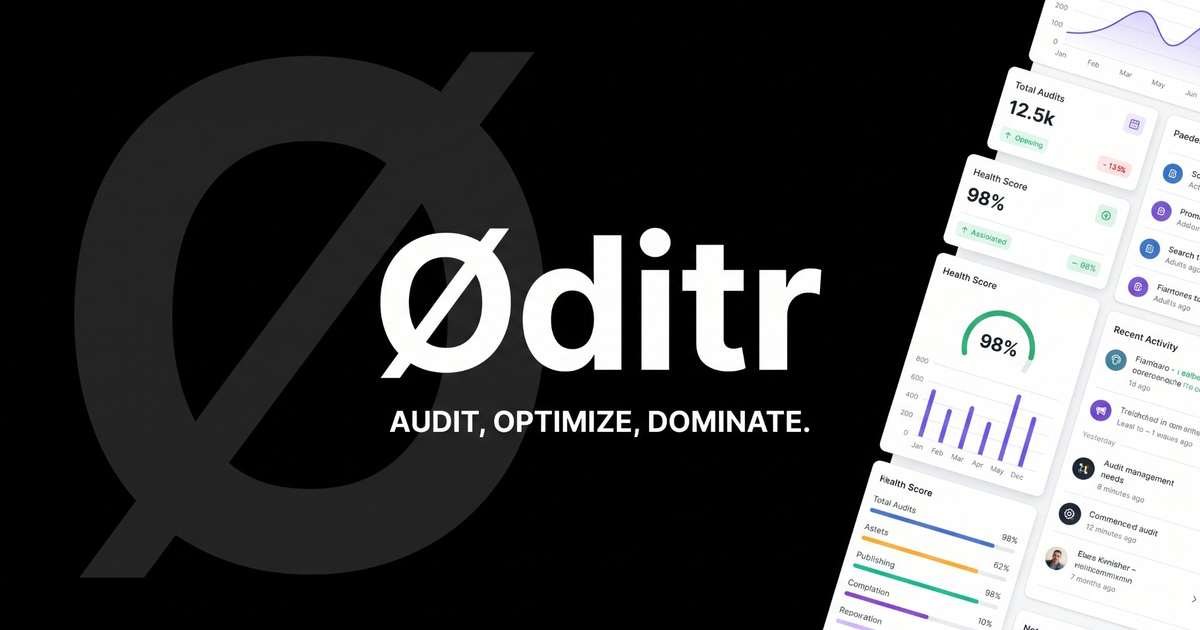
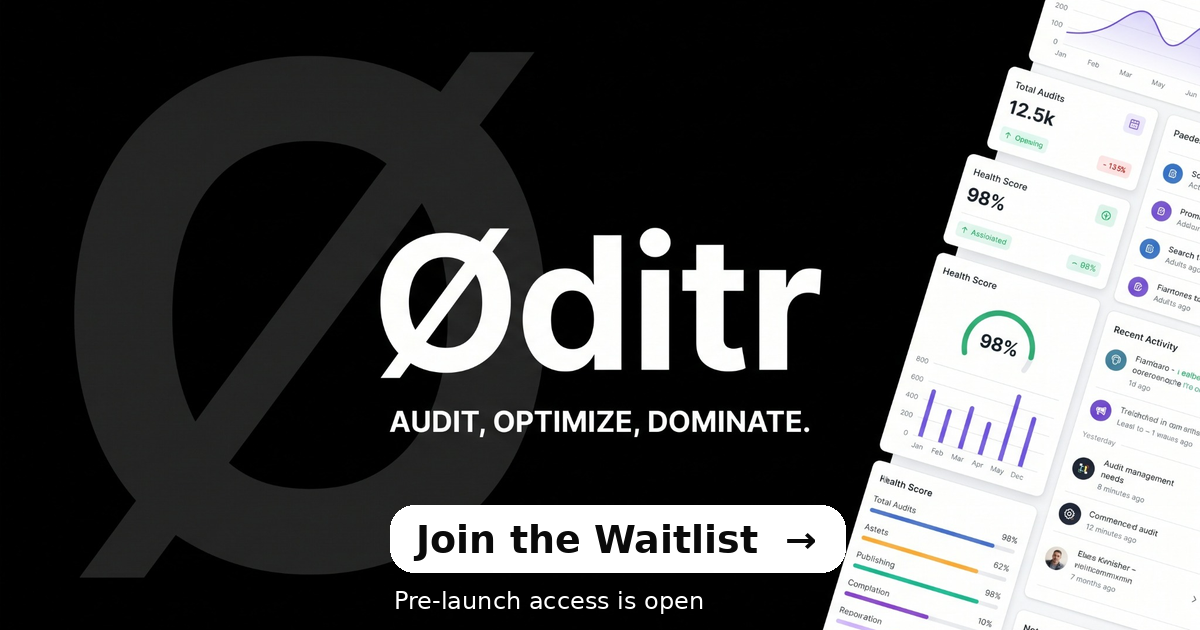
fix: OpenGraph meta tags - add og:site_name, og:url, absolute image URLs, width/height/alt, new OG image with CTA

Changed region(s): [[0.3083, 0.7841, 0.7092, 0.9651]]

diff --git a/frontend/public/index.html b/frontend/public/index.html
@@ -7,20 +7,26 @@
         <meta name="description" content="Øditr — Performance Intelligence for modern websites. Know what slows your website. Fix it before users leave." />
 
         <!-- Favicon & App Icons -->
-        <link rel="icon" type="image/x-icon" href="%PUBLIC_URL%/favicon.ico?v=2" />
-        <link rel="apple-touch-icon" href="%PUBLIC_URL%/apple-touch-icon.png?v=2" />
+        <link rel="icon" type="image/x-icon" href="%PUBLIC_URL%/favicon.ico?v=3" />
+        <link rel="apple-touch-icon" href="%PUBLIC_URL%/apple-touch-icon.png?v=3" />
 
         <!-- Open Graph -->
         <meta property="og:type" content="website" />
+        <meta property="og:site_name" content="Øditr" />
+        <meta property="og:url" content="https://oditr-waitlist-lc21.vercel.app/" />
         <meta property="og:title" content="Øditr — Website Intelligence Platform" />
         <meta property="og:description" content="Find what's broken. Fix what matters. Protect revenue." />
-        <meta property="og:image" content="%PUBLIC_URL%/oditr-og-image.png" />
+        <meta property="og:image" content="https://oditr-waitlist-lc21.vercel.app/oditr-og-image.png?v=3" />
+        <meta property="og:image:width" content="1200" />
+        <meta property="og:image:height" content="630" />
+        <meta property="og:image:alt" content="Øditr — Performance Intelligence for Modern Websites" />
 
         <!-- Twitter Card -->
         <meta name="twitter:card" content="summary_large_image" />
         <meta name="twitter:title" content="Øditr — Website Intelligence Platform" />
         <meta name="twitter:description" content="Find what's broken. Fix what matters. Protect revenue." />
-        <meta name="twitter:image" content="%PUBLIC_URL%/og-image.png" />
+        <meta name="twitter:image" content="https://oditr-waitlist-lc21.vercel.app/oditr-og-image.png?v=3" />
+        <meta name="twitter:image:alt" content="Øditr — Performance Intelligence for Modern Websites" />
 
         <link rel="preconnect" href="https://fonts.googleapis.com" />
         <link rel="preconnect" href="https://fonts.gstatic.com" crossorigin />